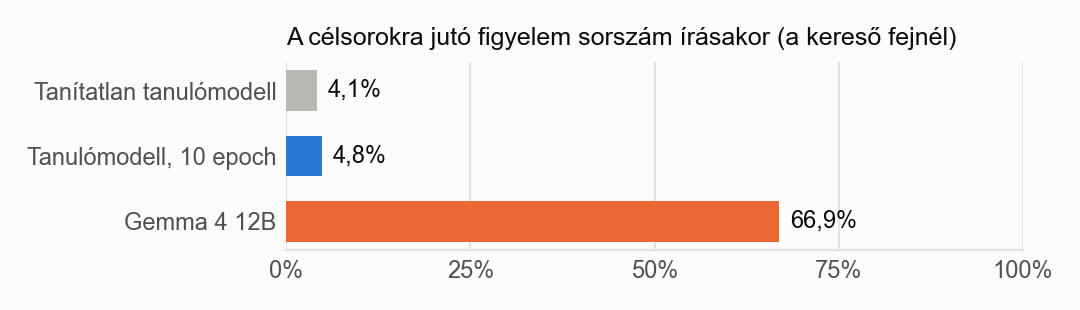
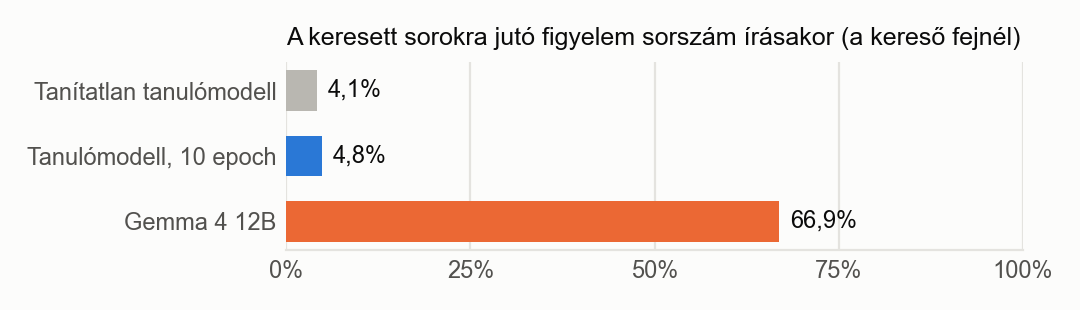
Figure 18a title: keresett sorok, as in the thesis text

Changed region(s): [[0.275, 0.0871, 0.9472, 0.1742]]

diff --git a/thesis_work/grafikonok/plot_18_attention_lookup.py b/thesis_work/grafikonok/plot_18_attention_lookup.py
@@ -49,7 +49,7 @@ math_values = [float(math_metrics["math-untrained-m"][math_name].max()), sum(tra
                float(math_metrics["gemma"][math_name].max())]
 
 FIGURES = [
-    ("18a_code_attention.png", "A célsorokra jutó figyelem sorszám írásakor", code_values,
+    ("18a_code_attention.png", "A keresett sorokra jutó figyelem sorszám írásakor", code_values,
      ["Tanítatlan tanulómodell", "Tanulómodell, 10 epoch", "Gemma 4 12B"]),
     ("18b_math_attention.png", "A számokra jutó figyelem szám írásakor", math_values,
      ["Tanítatlan tanulómodell", "Tanulómodell, 10 epoch", "Gemma 4 12B"]),
